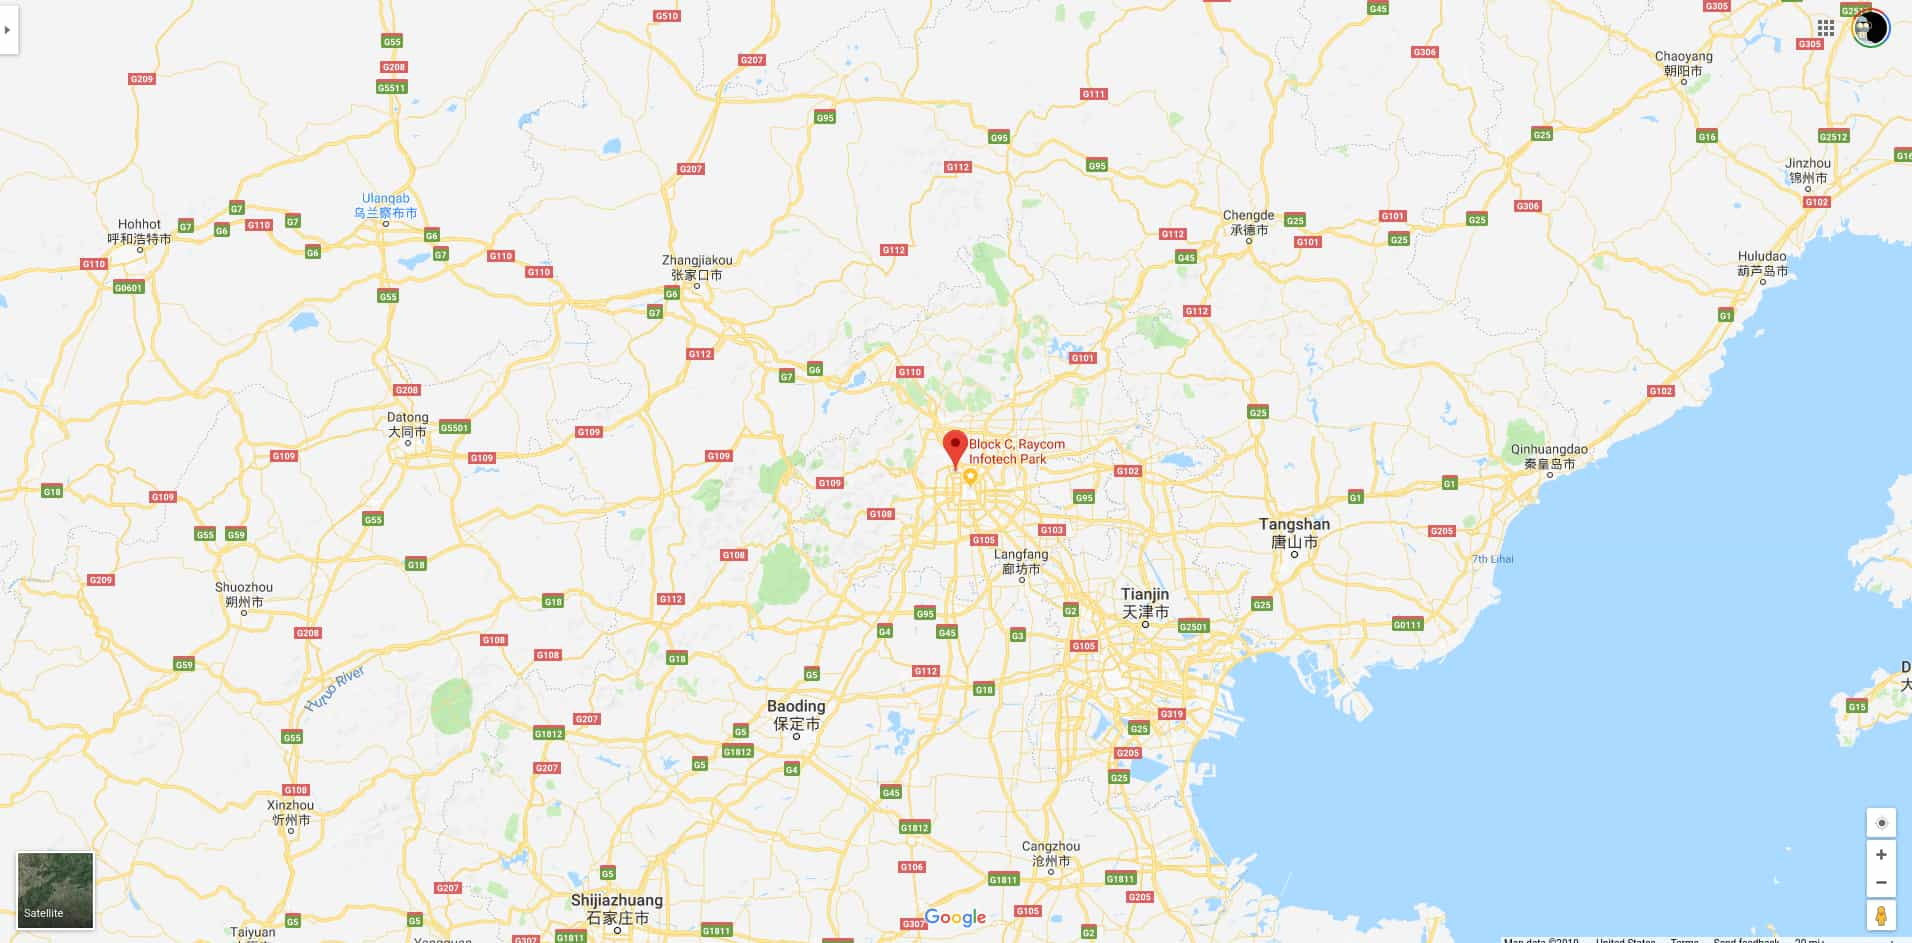
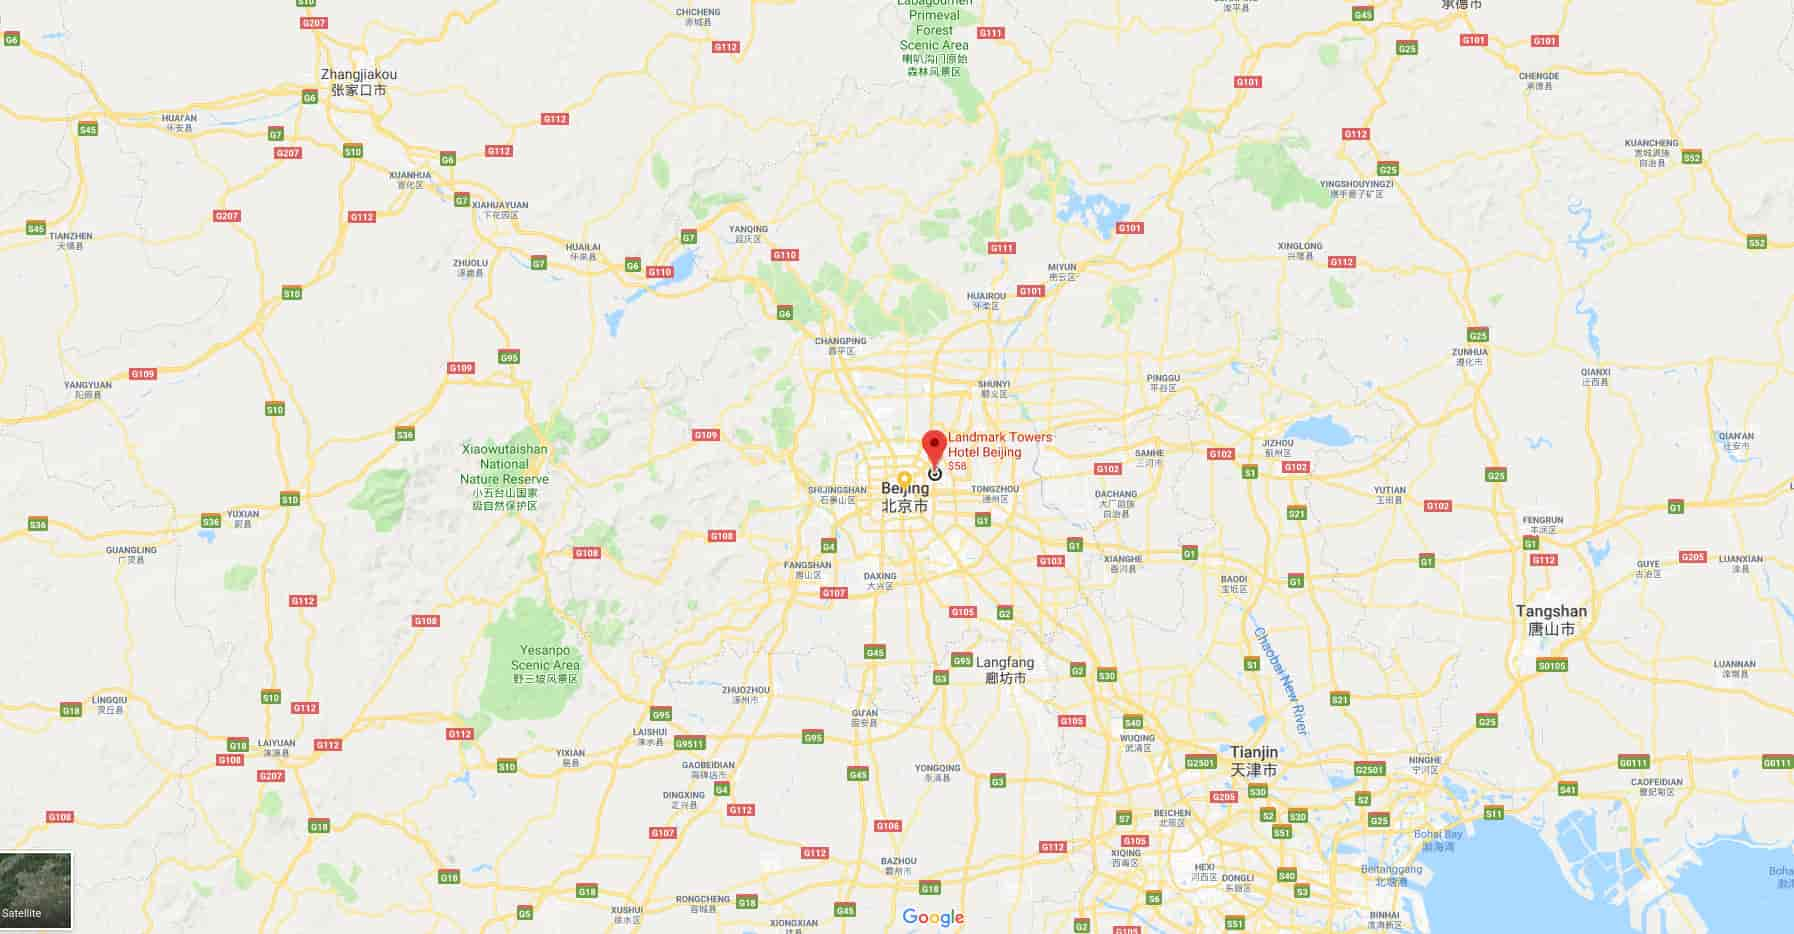
minior update
- add weixin share url
- improve update section style
- change location pic with real one

diff --git a/layouts/updates/list.html b/layouts/updates/list.html
@@ -6,14 +6,21 @@
   {{ range .Pages }}
   <div class="card horizontal z-depth-3">
     <div class="card-image">
-      <img src="/img/background/update-list.jpg">
+      <svg width="100" height="100%">
+
+        <rect width="100" height="100%" style="fill:rgb(198,40,40);" />
+        <text x="50%" y="18%" fill="white" style="writing-mode: tb;">
+          <tspan class="rhDisplayBold" style="letter-spacing: 2px;">{{ .Date.Format "2006-01-02" }}</tspan>
+        </text>
+        Sorry, your browser does not support inline SVG.
+      </svg>
     </div>
     <div class="card-stacked">
       <div class="card-content">
         <a href="{{.RelPermalink}}" style="color: black">
-          <h3 class="rhDisplayBlack">{{ .Title | upper }}</h3>
+          <h3 class="rhDisplayBlack" style="margin-top: 0.1rem">{{ .Title | upper }}</h3>
         </a>
-        <pre>{{ .Date.Format "2006-01-02" }}</pre>
+        <blockquote>{{ .Summary }}</blockquote>
       </div>
     </div>
   </div>

diff --git a/layouts/shortcodes/homepage/05-subscribe.html b/layouts/shortcodes/homepage/05-subscribe.html
@@ -3,13 +3,15 @@
 <div class="section red darken-3">
   <div class="row container center">
     {{ with $data.homepage.data.sub }}
-    <h3 class="header white-text hide-on-med-and-down rhDisplayBlack">{{ .title }}</h3>
-    <h4 class="header white-text hide-on-med-and-up rhDisplayBlack">{{ .title }}</h4>
+    <h3 class="white-text hide-on-med-and-down rhDisplayBlack"
+      style="text-shadow: 5px 5px 15px black;margin-bottom: 30px">{{ .title }}</h3>
+    <h4 class="white-text hide-on-med-and-up rhDisplayBlack">{{ .title }}</h4>
     {{ end }}
   </div>
+  <br>
   <div class="row center">
     {{ range . }}
-    <a href="{{ .url }}" class="btn-large waves-effect waves-light red darken-2 z-depth-4">
+    <a href="{{ .url }}" class="btn-large waves-effect waves-light red darken-2 z-depth-4" target="_blank">
       <i class="{{ .icon }}"></i>&nbsp;
       {{ .name }}
     </a>

diff --git a/layouts/shortcodes/homepage/04-speaker.html b/layouts/shortcodes/homepage/04-speaker.html
@@ -4,8 +4,9 @@
   <div class="section">
     <div class="row">
       <div class="col s12 center">
-        <h1 class="header col s12 hide-on-med-and-down rhDisplayBlack">{{ .speaker.title }}</h1>
-        <h4 class="header col s12 hide-on-med-and-up rhDisplayBlack">{{ .speaker.title }}</h4>
+        <h1 class="col s12 hide-on-med-and-down rhDisplayBlack"
+          style="text-shadow: 5px 5px 15px rgb(201, 200, 200);margin-bottom: 10px">{{ .speaker.title }}</h1>
+        <h4 class="col s12 hide-on-med-and-up rhDisplayBlack">{{ .speaker.title }}</h4>
 
         <h4>&nbsp;</h4>
 

diff --git a/layouts/shortcodes/homepage/07-location.html b/layouts/shortcodes/homepage/07-location.html
@@ -12,7 +12,8 @@
 
         <p class="rhTextBold">{{ .address }}</p>
 
-        <a class="btn-floating btn-large waves-effect waves-light red right" style="margin-bottom: 10px">
+        <a class="btn-floating btn-large waves-effect waves-light red right" style="margin-bottom: 10px"
+          href="{{ .url }}" target="_blank">
           <i class="fas fa-map-marked"></i>
         </a>
       </div>
